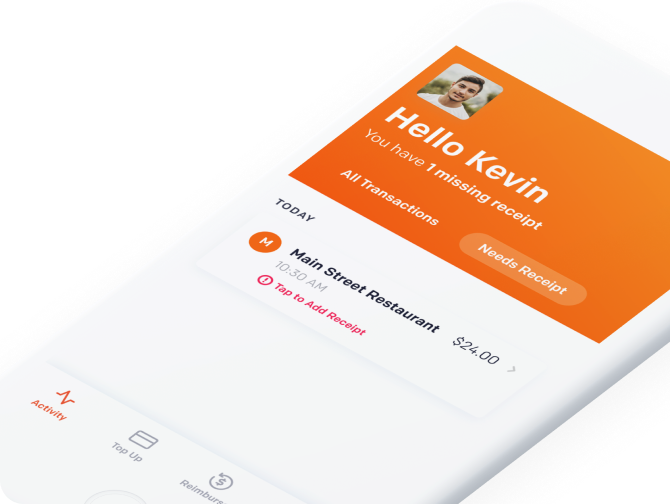
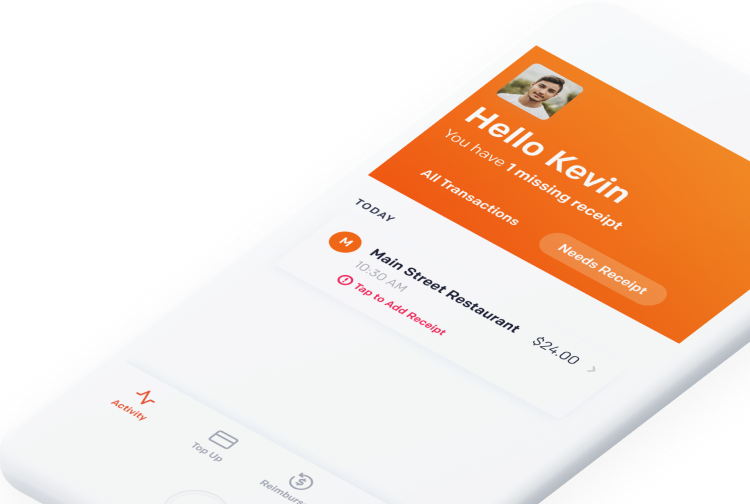
fixed image overflowing

diff --git a/src/ourWork.html b/src/ourWork.html
@@ -50,32 +50,38 @@
       <section id="workWorks">
         <a href="/" class="work" id="workSpenmo">
           <h3 class="work__h3">Spenmo</h3>
-          <img
-            src="images/portfolio/spenmo.png"
-            alt="Spenmo app on phone"
-            class="work__image"
-            loading="lazy"
-          />
+          <div class="work__imageHolder">
+            <img
+              src="images/portfolio/spenmo.png"
+              alt="Spenmo app on phone"
+              class="work__image"
+              loading="lazy"
+            />
+          </div>
         </a>
 
         <a href="/" class="work" id="workTightrope">
-          <img
-            src="images/portfolio/tightrope.png"
-            alt="Spenmo app on phone"
-            class="work__image"
-            loading="lazy"
-          />
+          <div class="work__imageHolder">
+            <img
+              src="images/portfolio/tightrope.png"
+              alt="Spenmo app on phone"
+              class="work__image"
+              loading="lazy"
+            />
+          </div>
           <h3 class="work__h3">Tightrope</h3>
         </a>
 
         <a href="/" class="work" id="workDiab">
           <h3 class="work__h3">Diet In A Box</h3>
-          <img
-            src="images/portfolio/diab.png"
-            alt="Spenmo app on phone"
-            class="work__image"
-            loading="lazy"
-          />
+          <div class="work__imageHolder">
+            <img
+              src="images/portfolio/diab.png"
+              alt="Spenmo app on phone"
+              class="work__image"
+              loading="lazy"
+            />
+          </div>
         </a>
       </section>
     </main>

diff --git a/src/stylesheets/pages/work/_work.scss b/src/stylesheets/pages/work/_work.scss
@@ -8,13 +8,20 @@
     flex-direction: column;
     margin-bottom: 2.5rem;
     text-decoration: none;
+    overflow: hidden;
 
     &__h3 {
       @extend .text-white;
       padding: 1.75rem;
     }
+    &__imageHolder {
+      max-height: 70%;
+      display: flex;
+      align-items: flex-end;
+      justify-content: flex-end;
+    }
     &__image {
-      width: 100%;
+      height: 100%;
     }
   }
 }
